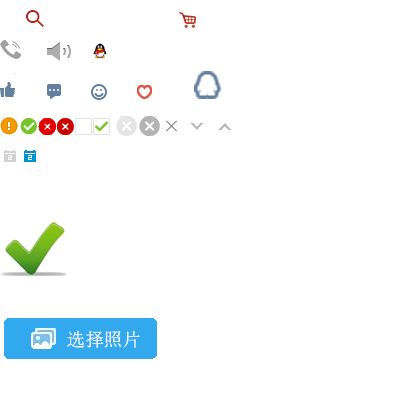
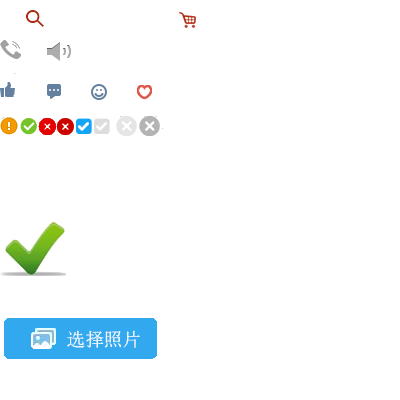
修改购物车查看乐拍码

diff --git a/public/assets/css/common.css b/public/assets/css/common.css
@@ -535,6 +535,13 @@ table td p.tl{
     z-index: 888;
     background:url("../images/icon.png") no-repeat;
 }
+.icon-shut{
+    width: 22px;
+    height: 22px;
+    cursor:pointer;
+    vertical-align: middle;
+    background-position: -139px -114px;
+}
 .icon-car{
     width: 22px;
     height: 22px;
@@ -1656,12 +1663,13 @@ table td p.tl{
 .tooltip{
     width: 50px;
     height: 22px;
+    line-height: 22px;
     color: #333;
     padding-right: 20px;
     display: inline-block;
     text-align: center;
     color: #333333;
-    background:url("../images/icon-02.png") no-repeat -37px -300px;
+    background:url("../images/icon-02.png") no-repeat -37px -297px;
 }
 .num-list{
     position: absolute;
@@ -2055,3 +2063,66 @@ a.Myahoo {
     font-style: normal;
     list-style: none;
 }
+.codeList{
+    z-index: 100;
+    min-width: 202px;
+    box-shadow: 1px 2px 3px 1px #D1D0D0;
+    background-color: #ECF0F5;
+    border-radius: 6px;
+    position: absolute;
+    display: none;
+    top: 30px;
+    right:10px;
+}
+.codeList:before{
+    content: "";
+    border-style: solid;
+    border-width: 0 9px 9px 9px;
+    border-color: transparent transparent #ECF0F5 transparent;
+    height: 0px;
+    position: absolute;
+    right: 23px;
+    top: -9px;
+    width: 0px;
+    -webkit-transform: rotate(360deg);
+}
+.codeList dl{
+    max-height: 200px;
+    font-weight: bold;
+    overflow-y: auto;
+    border: 1px solid #ECF0F5;
+    background: #ffffff;
+}
+.codeList dl dt{
+    padding: 8px 10px;
+    background: #ECF0F5;
+}
+.codeList dl dd{
+    overflow: hidden;
+    float: left;
+    min-width: 90px;
+    height: 26px;
+    color: #666;
+    line-height: 26px;
+    text-align: center;
+}
+.codeList .icon-shut{
+    position: absolute;
+    top: 2px;
+    right: 2px;
+}
+
+
+
+
+
+
+
+
+
+
+
+
+
+
+

diff --git a/public/assets/js/common.js b/public/assets/js/common.js
@@ -685,10 +685,12 @@ $(function(){
         $("a").focus(function(){this.blur();});
     }
 })
-/**/
+/**
+* 显示所有乐淘码
+**/
 $(function(){
     $(".tooltip").click(function(){
-          var num_list=$(this).next(".num-list");
+          var num_list=$(this).next(".codeList");
            if(num_list.css("display")=="none"){
               num_list.css({display:"block"});
            }
@@ -697,7 +699,11 @@ $(function(){
            }
       });
 });
-
+$(function(){
+    $(".icon-shut").click(function(){
+        $(this).parent().hide();
+    });
+});
 // 收藏
 function addFavorite(sURL, sTitle)
 {

diff --git a/public/assets/css/product.css b/public/assets/css/product.css
@@ -1240,7 +1240,7 @@
     margin-bottom: 10px;
     position: relative;
     border-top: 1px solid #D2D2D2;
-    border-right: 1px solid #D2D2D2;
+    border-left: 1px solid #D2D2D2;
 }
 .periodList ul{
     overflow: hidden;
@@ -1251,7 +1251,7 @@
     width: 12.39%;
     position: relative;
     background: #EEEEEE;
-    border-left: 1px solid #D2D2D2;
+    border-right: 1px solid #D2D2D2;
     border-bottom: 1px solid #D2D2D2;
 }
 .periodList ul li a{

diff --git a/fuel/app/views/cart/result.php b/fuel/app/views/cart/result.php
@@ -31,16 +31,17 @@
                         <td>
                         <div class="toolbox">
                             <a class="tooltip" href="javascript:void(0)">查看</a>
-                            <div class="num-list">
-                                <div class="icon-arrow"></div>
-                                <ul>
+                            <div class="codeList">
+                                <dl>
+                                     <dt>所有乐淘码</dt>
                                      <?php 
                                         $codes = \Helper\Codes::getArray($item->codes);
                                         foreach($codes as $code) {
-                                            echo "<li>{$code}</li>";
+                                            echo "<dd>{$code}</dd>";
                                         }
                                      ?>
-                                 </ul>
+                                 </dl>
+                                 <span class="icon icon-shut"></span>
                             </div>
                          </div>
                         </td>

diff --git a/fuel/app/views/posts/view.php b/fuel/app/views/posts/view.php
@@ -55,6 +55,10 @@
     <div class="sidebar fr">
         <div class="title-red">
             <h3>往期获得者</h3>
+            <div class="arrow-menu">
+                <a href="javascript:void(0)" class="arrow-on"></a>
+                <a href="javascript:void(0)" class="arrow-up"></a>
+            </div>
         </div>
         <ul class="before">
             <?php $lwins = $getLastWins($post->item_id);?>
